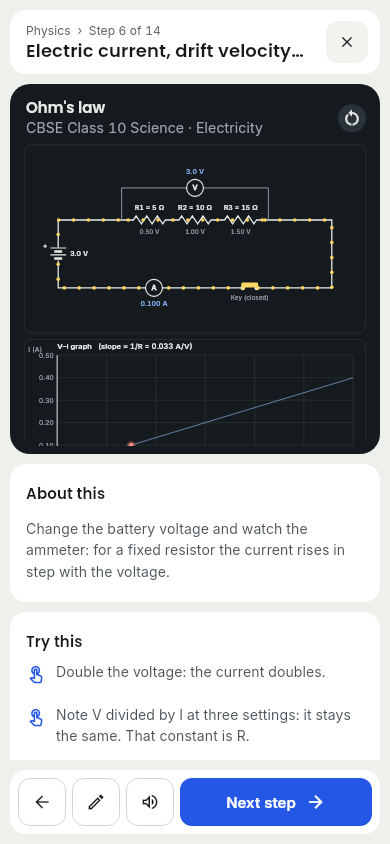
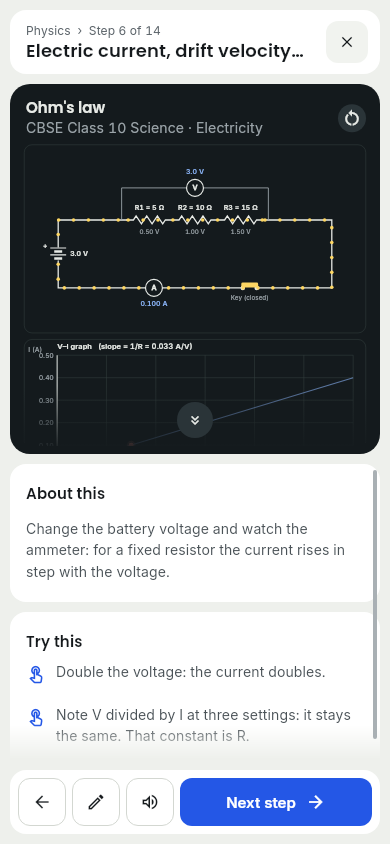
Board: LabFrame scroll cue so every Kinetix lab control is reachable; lab_frame tests; re-rendered lab shots
Claude-Session: https://claude.ai/code/session_01CrEw3mKVcsMSp9VQsb5zxb

diff --git a/apps/board/lib/core/ui.dart b/apps/board/lib/core/ui.dart
@@ -547,7 +547,8 @@ class _RailScrollState extends State<RailScroll> {
       ScrollNotification(:final metrics) => metrics,
       _ => null,
     };
-    if (m == null || m.axis != Axis.vertical) return false;
+    // Only the rail's own scroll view, not one inside a panel or a lab.
+    if (m == null || m.axis != Axis.vertical || (n is ViewportNotificationMixin && n.depth > 0)) return false;
     final more = m.extentAfter > 1, scrolled = m.extentBefore > 1;
     if (more != _more || scrolled != _scrolled) {
       WidgetsBinding.instance.addPostFrameCallback((_) {
@@ -592,6 +593,111 @@ class _RailScrollState extends State<RailScroll> {
         crossAxisMargin: 6,
         mainAxisMargin: 12,
         child: list,
+      ),
+    );
+  }
+}
+
+/// A Kinetix lab (or player) on the stage. A lab lays out its own side panel (readouts, controls,
+/// its aim) that scrolls by itself when the stage is shorter than the panel, and nothing said so:
+/// the panel just ended mid-card at the stage's edge. The lab keeps the stage's size (its circuit
+/// and graph stay in view); when a scroll view inside it has more below, its bottom edge fades
+/// and a round "more" button sits there, which scrolls it on (as does dragging it), so every
+/// control is reachable on a board and on a phone.
+class LabFrame extends StatefulWidget {
+  const LabFrame({super.key, required this.child});
+  final Widget child;
+  @override
+  State<LabFrame> createState() => _LabFrameState();
+}
+
+class _LabFrameState extends State<LabFrame> {
+  /// The lab's scroll view that has more below (its panel), and where it is in this frame.
+  ScrollPosition? _pos;
+  Rect? _rect;
+  bool _scheduled = false;
+
+  bool _onScroll(Notification n) {
+    if (n is! ScrollNotification && n is! ScrollMetricsNotification) return false;
+    if (!_scheduled) {
+      _scheduled = true;
+      WidgetsBinding.instance.addPostFrameCallback((_) {
+        _scheduled = false;
+        if (mounted) _measure();
+      });
+    }
+    return false;
+  }
+
+  /// Finds the tallest vertical scroll view inside the lab that is not at its end.
+  void _measure() {
+    final frame = context.findRenderObject() as RenderBox?;
+    if (frame == null || !frame.hasSize) return;
+    ScrollPosition? best;
+    Rect? bestRect;
+    void visit(Element e) {
+      if (e is StatefulElement && e.state is ScrollableState) {
+        final st = e.state as ScrollableState;
+        final p = st.position;
+        final box = e.findRenderObject();
+        if (p.axis == Axis.vertical && p.hasContentDimensions && p.extentAfter > 1 && box is RenderBox && box.hasSize && box.attached) {
+          final r = box.localToGlobal(Offset.zero, ancestor: frame) & box.size;
+          if (bestRect == null || r.height > bestRect!.height) {
+            best = p;
+            bestRect = r;
+          }
+        }
+      }
+      e.visitChildren(visit);
+    }
+
+    (context as Element).visitChildren(visit);
+    if (best != _pos || bestRect != _rect) {
+      setState(() {
+        _pos = best;
+        _rect = bestRect;
+      });
+    }
+  }
+
+  @override
+  Widget build(BuildContext context) {
+    final r = _rect, p = _pos;
+    const fade = 120.0;
+    return NotificationListener<Notification>(
+      onNotification: _onScroll,
+      child: Stack(
+        children: [
+          Positioned.fill(child: widget.child),
+          if (r != null && p != null) ...[
+            Positioned(
+              left: r.left,
+              width: r.width,
+              top: r.bottom - fade,
+              height: fade,
+              child: const IgnorePointer(
+                child: DecoratedBox(
+                  decoration: BoxDecoration(gradient: LinearGradient(begin: Alignment.topCenter, end: Alignment.bottomCenter, colors: [Color(0x00141A1D), Color(0xE6141A1D)])),
+                ),
+              ),
+            ),
+            Positioned(
+              left: r.left,
+              width: r.width,
+              top: r.bottom - 88,
+              height: 72,
+              child: Center(
+                child: StageButton(
+                  key: const ValueKey('labMore'),
+                  icon: Icons.keyboard_double_arrow_down,
+                  tooltip: 'More',
+                  size: 72,
+                  onPressed: () => p.animateTo((p.pixels + p.viewportDimension * 0.7).clamp(0.0, p.maxScrollExtent), duration: const Duration(milliseconds: 350), curve: Curves.easeOutCubic),
+                ),
+              ),
+            ),
+          ],
+        ],
       ),
     );
   }

diff --git a/apps/board/test/lab_frame_test.dart b/apps/board/test/lab_frame_test.dart
@@ -1,0 +1,78 @@
+// Kinetix labs on the stage: on a classroom board and on a phone, where the lab's own panel
+// (readouts, controls, aim) runs past the stage, a "more" button says so and brings every part of
+// it into view.
+import 'package:flutter/material.dart';
+import 'package:flutter_test/flutter_test.dart';
+import 'package:zynetix_board/blocks/block_view.dart';
+import 'package:zynetix_board/blocks/embeds.dart';
+import 'package:zynetix_board/core/services.dart';
+import 'package:zynetix_board/core/ui.dart';
+import 'package:zynetix_board/features/player.dart';
+import 'package:zynetix_board/main.dart';
+
+import 'helpers.dart';
+
+const labs = [
+  ('puc2-physics-03-current-electricity.t1', 'lab-ohms-law'),
+  ('puc2-physics-03-current-electricity.t1', 'sim-lab.ohms-law'),
+  ('puc2-physics-03-current-electricity.t2', 'lab-meter-bridge'),
+  ('puc1-chemistry-06-equilibrium.t4', 'lab-titration-hcl-naoh'),
+  ('puc1-chemistry-01-some-basic-concepts-of-chemistry.t5', 'lab-titration-oxalic-naoh'),
+];
+
+const sizes = <String, (Size, String)>{
+  'classroom': (Size(1920, 1080), 'classroom'),
+  'phone': (Size(390, 844), 'normal'),
+};
+
+void main() {
+  for (final sz in sizes.entries) {
+    testWidgets('every lab panel is reachable whole: ${sz.key}', (t) async {
+      final (size, display) = sz.value;
+      t.view.physicalSize = size;
+      t.view.devicePixelRatio = 1;
+      addTearDown(t.view.reset);
+      final base = await testServices(prefs: {'displaySize': display});
+      final s = Services(config: base.config, store: base.store, outbox: base.outbox, narrator: base.narrator, syllabus: base.syllabus, embeds: KinetixEmbeds(), clock: base.clock);
+      var checked = 0, cued = 0;
+      for (final (topic, id) in labs) {
+        final hit = s.lessonFor(topic)!;
+        final i = hit.lesson.blocks.indexWhere((b) => b.id == id);
+        if (i < 0) continue; // not in this lesson (content changes)
+        await t.pumpWidget(ZynetixBoardApp(key: UniqueKey(), services: s, home: LessonPlayerScreen(pack: hit.pack, lesson: hit.lesson)));
+        await t.pump();
+        t.widget<BlockView>(find.byType(BlockView)).c.goTo(i);
+        for (var k = 0; k < 6; k++) {
+          await t.pump(const Duration(milliseconds: 50));
+        }
+        final frame = find.byType(LabFrame);
+        expect(frame, findsOneWidget, reason: id);
+        List<ScrollPosition> inner() => [
+          for (final e in find.descendant(of: frame, matching: find.byType(Scrollable)).evaluate())
+            if (((e as StatefulElement).state as ScrollableState).position case final p when p.axis == Axis.vertical) p,
+        ];
+        // Where the lab's panel runs past the stage, the "more" button says so and scrolls it on.
+        final more = find.byKey(const ValueKey('labMore'));
+        if (inner().any((p) => p.extentAfter > 1)) {
+          expect(more, findsOneWidget, reason: '$id: cut off with no cue');
+          cued++;
+        }
+        checked++;
+        for (var k = 0; k < 30 && more.evaluate().isNotEmpty; k++) {
+          await t.tap(more);
+          await t.pump();
+          await t.pump(const Duration(milliseconds: 400));
+          await t.pump();
+        }
+        expect(more, findsNothing, reason: id);
+        for (final p in inner()) {
+          expect(p.extentAfter, lessThanOrEqualTo(1), reason: '$id: the end of the lab is out of reach');
+        }
+        expect(t.takeException(), isNull, reason: id);
+      }
+      expect(checked, greaterThanOrEqualTo(3));
+      expect(cued, greaterThan(0), reason: 'no lab ran past the stage: the test no longer exercises the cue');
+      await t.pumpWidget(const SizedBox());
+    });
+  }
+}

diff --git a/apps/board/lib/blocks/block_view.dart b/apps/board/lib/blocks/block_view.dart
@@ -106,7 +106,7 @@ class BlockView extends StatelessWidget {
       ),
       // Kinetix labs and players draw their own title and controls: no heading over them.
       BlockType.simulation => staged(
-        embeds.simulation(b, c.pack, l),
+        b.s('source') == 'phet' ? embeds.simulation(b, c.pack, l) : LabFrame(child: embeds.simulation(b, c.pack, l)),
         title: b.s('source') == 'phet' ? (b.title?.t(l) ?? blockName(b.type, l)) : null,
         hint: b.s('source') == 'phet' ? tr('simHint', l) : null,
         rail: [
@@ -115,7 +115,7 @@ class BlockView extends StatelessWidget {
         ],
       ),
       BlockType.virtualLab => staged(
-        embeds.lab(b.s('labId')!, b.s('preset'), l),
+        LabFrame(child: embeds.lab(b.s('labId')!, b.s('preset'), l)),
         title: null,
         hint: null,
         rail: [
